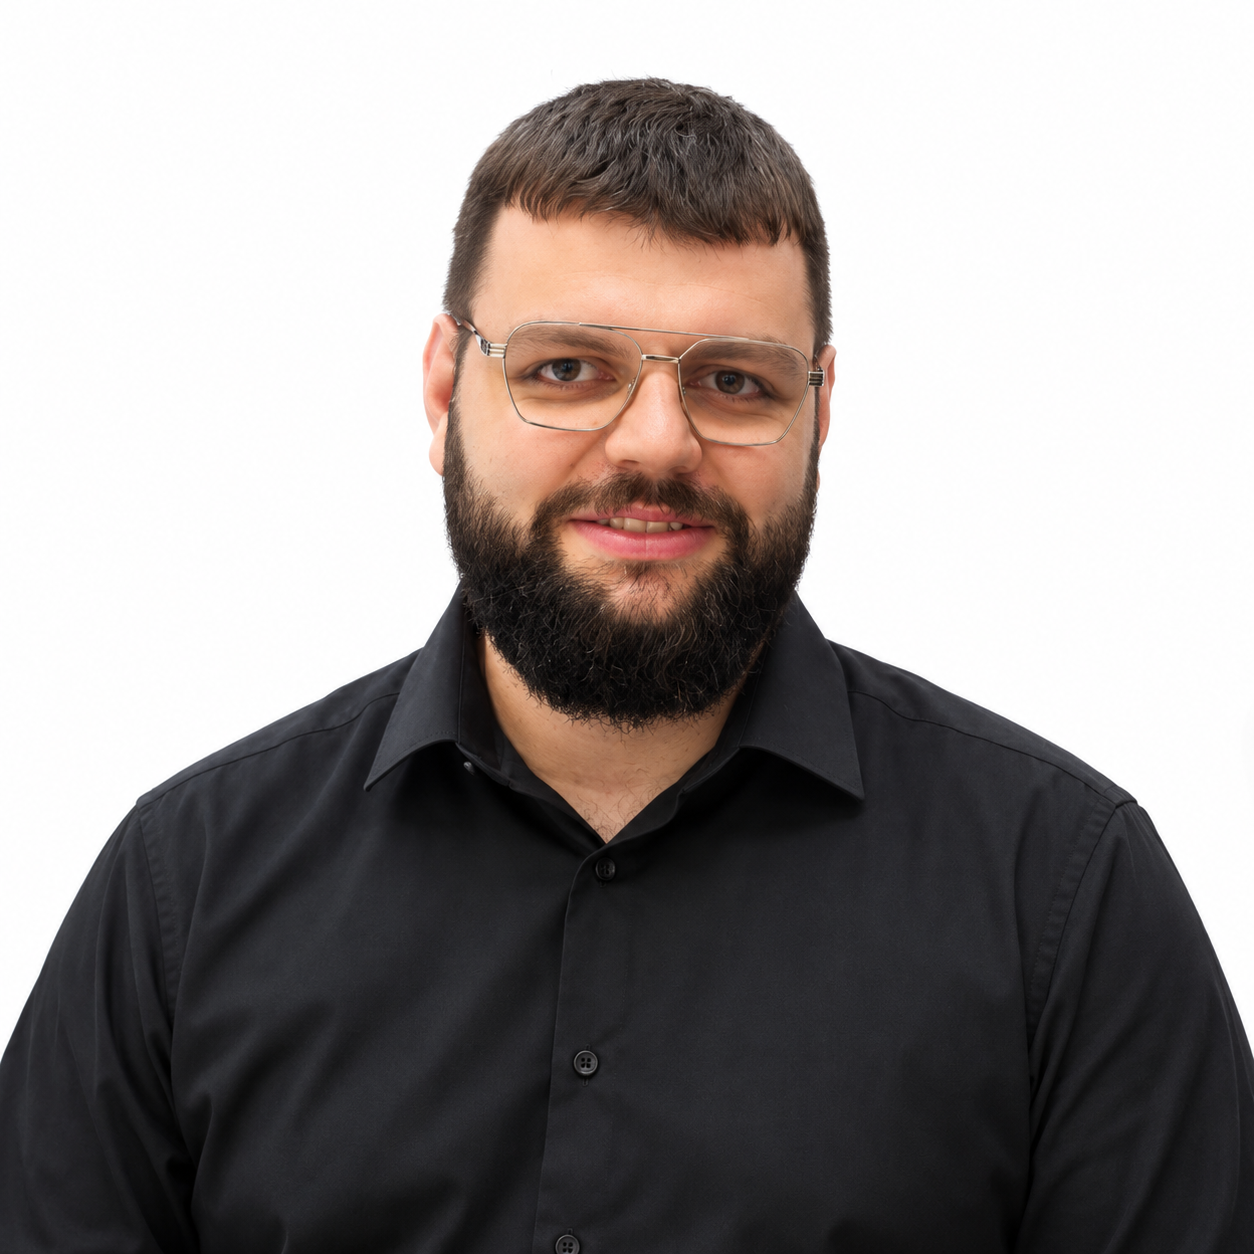
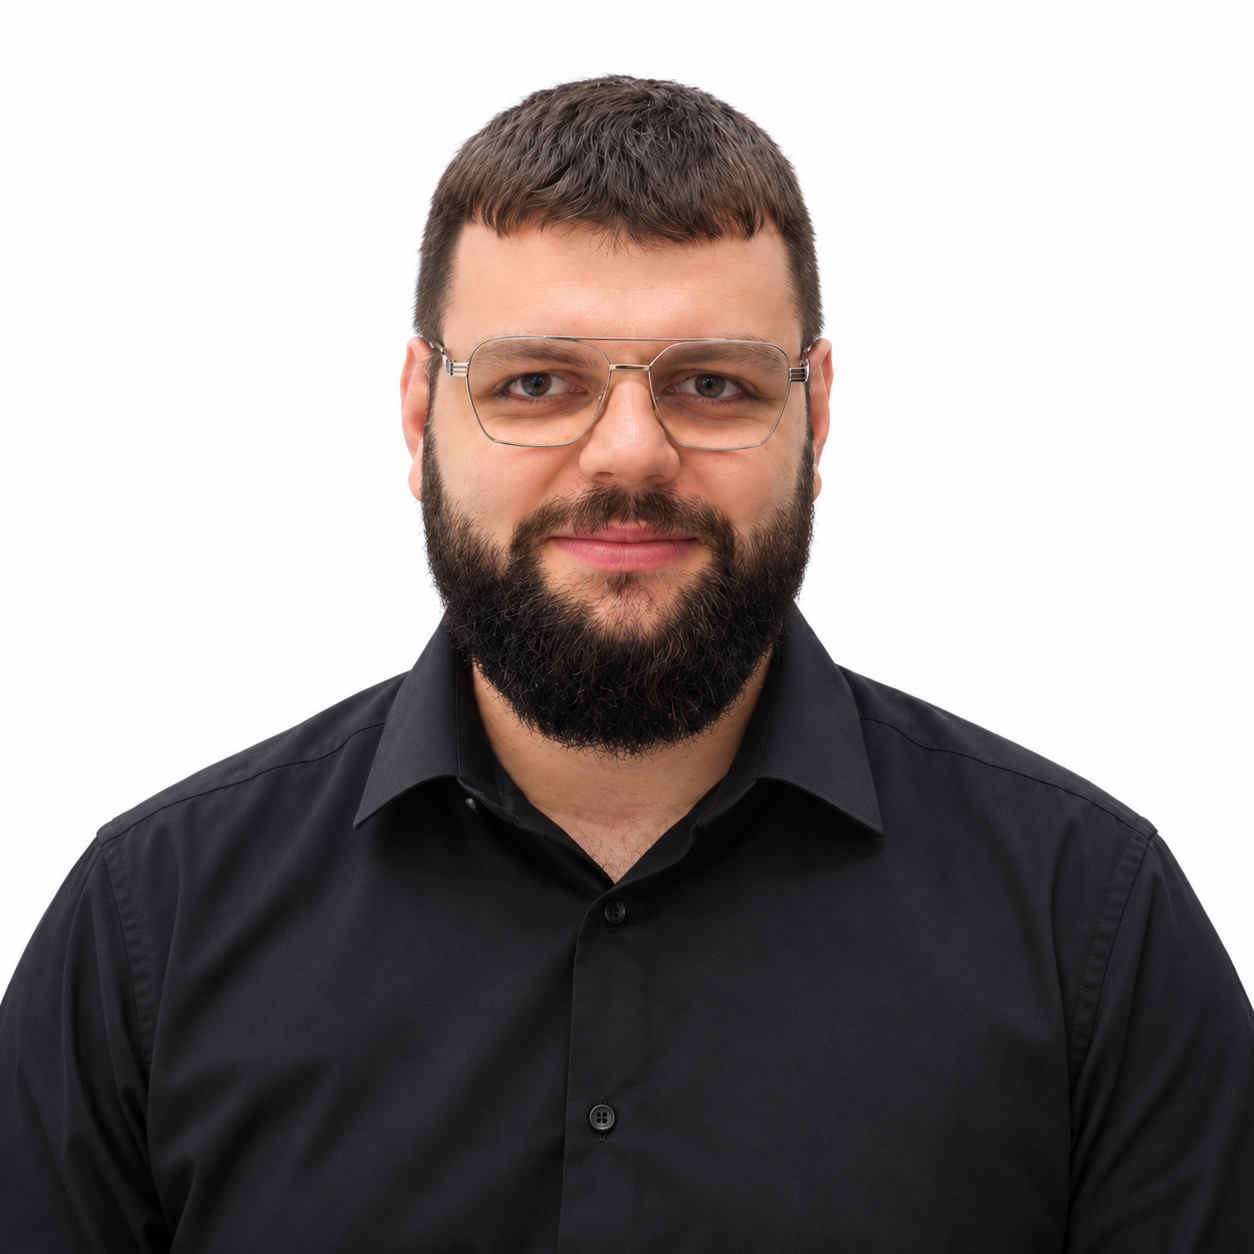
Update

diff --git a/resources/js/components/home/founder-quote-section.tsx b/resources/js/components/home/founder-quote-section.tsx
@@ -1,0 +1,66 @@
+import { Section } from '@/components/home/section';
+import { localized, useCopy } from '@/lib/i18n';
+
+/** Damian's avatar (netizo/zdjecia/portrety.cjs), the same files as on the about page; 192 px covers 112 px CSS on 1.5× screens. */
+const PORTRAIT = '/assets/images/people/damian-idzik';
+
+/** Damian as in PEOPLE (components/about/about-data.ts), written out here so the home chunk stays free of the about data. */
+const COPY = localized({
+    pl: {
+        quote: '„Dla nas najważniejsze jest, żeby to, co tworzymy, realnie pomagało Twojej firmie.”',
+        name: 'Damian Idzik',
+        role: 'współwłaściciel Netizo',
+    },
+    en: {
+        quote: '“What matters most to us is that what we build actually helps your business.”',
+        name: 'Damian Idzik',
+        role: 'co-owner of Netizo',
+    },
+});
+
+/**
+ * A word from a co-owner: his round avatar in a dashed ring (the page rails' line), a hairline, then the quote with its
+ * opening mark hung in the margin and the attribution after a short rule; stacked and centred on phones (no hung mark,
+ * no rule). The avatar is decorative: the caption names him. A hairline ring keeps the photo's white backdrop apart
+ * from the light page.
+ */
+export function FounderQuoteSection() {
+    const copy = useCopy(COPY);
+
+    return (
+        <Section containerClassName="py-16 md:py-24">
+            <div className="mx-auto flex max-w-4xl flex-col items-center gap-8 text-center sm:flex-row sm:gap-0 sm:text-left">
+                <div className="relative shrink-0 p-2 sm:mr-10 md:mr-12">
+                    <span aria-hidden="true" className="absolute inset-0 rounded-full border border-dashed border-border dark:border-foreground/18" />
+                    <img
+                        src={`${PORTRAIT}-192.webp`}
+                        srcSet={`${PORTRAIT}-96.webp 96w, ${PORTRAIT}-192.webp 192w`}
+                        sizes="(min-width: 640px) 112px, 80px"
+                        width={192}
+                        height={192}
+                        alt=""
+                        loading="lazy"
+                        decoding="async"
+                        className="relative size-20 rounded-full bg-muted object-cover ring-1 ring-border sm:size-28 dark:brightness-[0.92]"
+                    />
+                </div>
+
+                <figure className="sm:border-l sm:border-border sm:py-2 sm:pl-10 md:pl-12">
+                    <blockquote>
+                        <p className="text-[1.375rem] leading-[1.25] font-semibold tracking-[-0.025em] text-balance sm:text-2xl md:text-[1.875rem]">
+                            <span className="sm:-ml-[0.4em]">{copy.quote.slice(0, 1)}</span>
+                            {copy.quote.slice(1)}
+                        </p>
+                    </blockquote>
+                    <figcaption className="mt-6 flex items-center justify-center gap-3 text-sm sm:justify-start">
+                        <span aria-hidden="true" className="hidden h-px w-6 shrink-0 bg-foreground/40 sm:block" />
+                        <span>
+                            <span className="font-medium">{copy.name}</span>
+                            <span className="text-muted-foreground">, {copy.role}</span>
+                        </span>
+                    </figcaption>
+                </figure>
+            </div>
+        </Section>
+    );
+}

diff --git a/resources/js/pages/home.tsx b/resources/js/pages/home.tsx
@@ -2,6 +2,7 @@ import { CallbackFab } from '@/components/home/callback-fab';
 import { ClientsSection } from '@/components/home/clients-section';
 import { ContactSection } from '@/components/home/contact-section';
 import { FaqSection } from '@/components/home/faq-section';
+import { FounderQuoteSection } from '@/components/home/founder-quote-section';
 import { Hero } from '@/components/home/hero';
 import { HomeUiProvider, useHomeUi } from '@/components/home/home-ui-context';
 import { MissionSection } from '@/components/home/mission-section';
@@ -43,6 +44,7 @@ export default function Home({ projects, clients, faq }: HomePageProps) {
                     <ProjectsSection projects={projects} />
                     <MissionSection />
                     <ClientsSection clients={clients} />
+                    <FounderQuoteSection />
                     <ProcessSection />
                     <PanelSection />
                     <FaqSection faq={faq} />

diff --git a/CLAUDE.md b/CLAUDE.md
@@ -127,7 +127,7 @@ Brief option values live as constants on `StoreProjectBriefRequest` (and `StoreC
 - `components/motion/` - Motion primitives, import from `@/components/motion`: `Reveal`, `SplitLines` (hero H1), `CountUp`, `Marquee`, `Spotlight`/`useSpotlight`, `useLiveLoop`/`useInViewLoop` (in-view gated loops), `useMotionStyle` (bind `useScroll`/`useTransform` values to a plain element), `MotionRoot` (wraps the page). Don't use `motion.*`/`m.*`/`animate()` (they pull in the animation engine, ~+27 KB gz); gate scroll-linked styles with `useReducedMotionPreference()`.
 - `components/ui/` - shadcn components (add new ones with `npx shadcn add`, answer "no" to overwriting existing ones, then check the generated `cn` import points at `@/lib/utils`, not the `cn` npm package, and that sidebar tokens stay monochrome)
 - `pages/partners.tsx` + `components/partners/` - Partner programme page: `partner-data.ts` (terms, steps, calculator presets, copy), `partner-header`, `partner-hero` + `referral-scene` (live loop over the `partner-referral` photo: order with the partner's code → its 15% slice fills → payout notification), `steps-section` (scroll-drawn rail: `useScroll` → `--rail`), `commission-calculator` (firms as columns with a 15% cap, tweened total), `audience-section`, `rules-section`, `partner-faq-section`, `join-section` (partner card mirroring the typed name) + `partner-application-form`, `partner-options.ts`, `commission-bar` (the 85/15 split bar, shared with the home page band)
-- `pages/about.tsx` + `components/about/` - About page, unframed (`data-unframed` on its root, app.css: no page rails or Section hairlines; sections are set apart by space and their content sits in sharp-edged cards with square rivets on the corners, `CARD` and `CardRivets` in `card.tsx`, matching the home page's edges): `about-data.ts` (people with their photos and topics, what they share, work modes and notes, the meeting towns with coordinates, and the story, numbers and testimonials: entries marked `sample` are drafts and placeholders rendered only while `previewSamples` (local development); a section without real entries is left out, so they never reach the site until the flag is dropped), `about-header`, `about-hero` (split hero: an avatar pill, the heading, lead, buttons and facts with icons on the left; on the right the `about-studio` photo in a sharp-edged frame with corner rivets running off the edge, with the co-owners' cards and the reply time floating on its wall as home-page scene chips (`CHIP_SURFACE`), rising in after the copy), `team-section` (a row per co-owner, alternating: `parallax-photo` of their part of the work with their avatar as a badge, the name set large, bio, "Z nim omówisz"; then the shared band), `story-section` (sticky heading, scroll-drawn rail lighting each milestone, CountUp figures with how they are counted), `how-we-work-section` (work modes as parallax photo cells, the map band with `service-area-map` beside the road photo and distances from Leszno, the notes), `service-area-map` (the OpenStreetMap map image painted in the text colour through `mask-image`; the outline opens and the town chips pop in once in view, the dots pulse while on screen; 10 km scale, © OpenStreetMap link; bounds in `meeting-area.json`), `about-projects-section`, `testimonials-section` (slow Marquee of cards, a grid under reduced motion; no review markup), `company-section` (one card with copy buttons, announced via `role=status`), `about-cta-section`. Portraits of the co-owners are not generated: the photos show their work (hands, desks), and the avatars (`PersonAvatar` in `person-portrait.tsx`) show a person's real photo when `portrait` is set in `about-data.ts` (Damian: `public/assets/images/people/damian-idzik-{96,192}.webp`, made by `npx -y -p sharp@0.35.5 node netizo/zdjecia/portrety.cjs <nazwa> <zdjęcie> [lewo,góra,bok]`), else the initials (Kamil, until his photo exists). `components/home/subpage-header.tsx` is the header shared by the partner, about and legal pages.
+- `pages/about.tsx` + `components/about/` - About page, unframed (`data-unframed` on its root, app.css: no page rails or Section hairlines; sections are set apart by space and their content sits in sharp-edged cards with square rivets on the corners, `CARD` and `CardRivets` in `card.tsx`, matching the home page's edges): `about-data.ts` (people with their photos and topics, what they share, work modes and notes, the meeting towns with coordinates, and the story, numbers and testimonials: entries marked `sample` are drafts and placeholders rendered only while `previewSamples` (local development); a section without real entries is left out, so they never reach the site until the flag is dropped), `about-header`, `about-hero` (split hero: an avatar pill, the heading, lead, buttons and facts with icons on the left; on the right the `about-studio` photo in a sharp-edged frame with corner rivets running off the edge, with the co-owners' cards and the reply time floating on its wall as home-page scene chips (`CHIP_SURFACE`), rising in after the copy), `team-section` (a row per co-owner, alternating: `parallax-photo` of their part of the work with their avatar as a badge, the name set large, bio, "Z nim omówisz"; then the shared band), `story-section` (sticky heading, scroll-drawn rail lighting each milestone, CountUp figures with how they are counted), `how-we-work-section` (work modes as parallax photo cells, the map band with `service-area-map` beside the road photo and distances from Leszno, the notes), `service-area-map` (the OpenStreetMap map image painted in the text colour through `mask-image`; the outline opens and the town chips pop in once in view, the dots pulse while on screen; 10 km scale, © OpenStreetMap link; bounds in `meeting-area.json`), `about-projects-section`, `testimonials-section` (slow Marquee of cards, a grid under reduced motion; no review markup), `company-section` (one card with copy buttons, announced via `role=status`), `about-cta-section`. Portraits of the co-owners are not generated: the photos show their work (hands, desks), and the avatars (`PersonAvatar` in `person-portrait.tsx`) show a person's real photo when `portrait` is set in `about-data.ts` (Damian: `public/assets/images/people/damian-idzik-{96,192}.webp`, also the avatar beside his quote on the home page, `components/home/founder-quote-section.tsx` between Clients and Process; made by `npx -y -p sharp@0.35.5 node netizo/zdjecia/portrety.cjs <nazwa> <zdjęcie> [lewo,góra,bok]`), else the initials (Kamil, until his photo exists). `components/home/subpage-header.tsx` is the header shared by the partner, about and legal pages.
 - `pages/privacy-policy.tsx`, `pages/terms.tsx` + `components/legal/` - Legal pages on one layout (`legal-page.tsx`): `legal-header` (the button writes to us), `legal-hero` (the title, the effective date, print, and the party the document names as a letterhead card), `legal-document` (numbered sections, "§ 3" in the terms and "3." in the policy, the number hanging beside the heading; a sticky contents list following the section being read from lg, a disclosure below lg; the text set by `.legal-prose` in app.css), `legal-contact-section`, the copy in `privacy-policy-copy.tsx` / `terms-copy.tsx` (`localized<LegalDocumentCopy>`, sections as JSX, anchors per language inside), and for the policy `data-routes-section` (a row per form: what you enter, where it is stored, how long we keep it) and `cookie-table` (`CookieTable`, `CookieSettingsButton`). Printing keeps the hero and the text.
 - `pages/admin/` + `components/admin/` - Admin panel: `AdminLayout` (sidebar, breadcrumb, flash notice), forms (`project-form`, `client-form`, `image-field`, `tags-input`, `repeater-list`), lists (`list-toolbar`, `sort-header`, `pagination`, `bulk-bar`, `sortable`, `record-toolbar`), `detail`, `brief-labels`; hooks `use-selection`, `use-record-list`, `use-list-filters`; URLs in `lib/admin-routes.ts`; types in `types/admin.ts`
 - `hooks/use-appearance.tsx` - Light/dark/system theme (cookie + localStorage)
